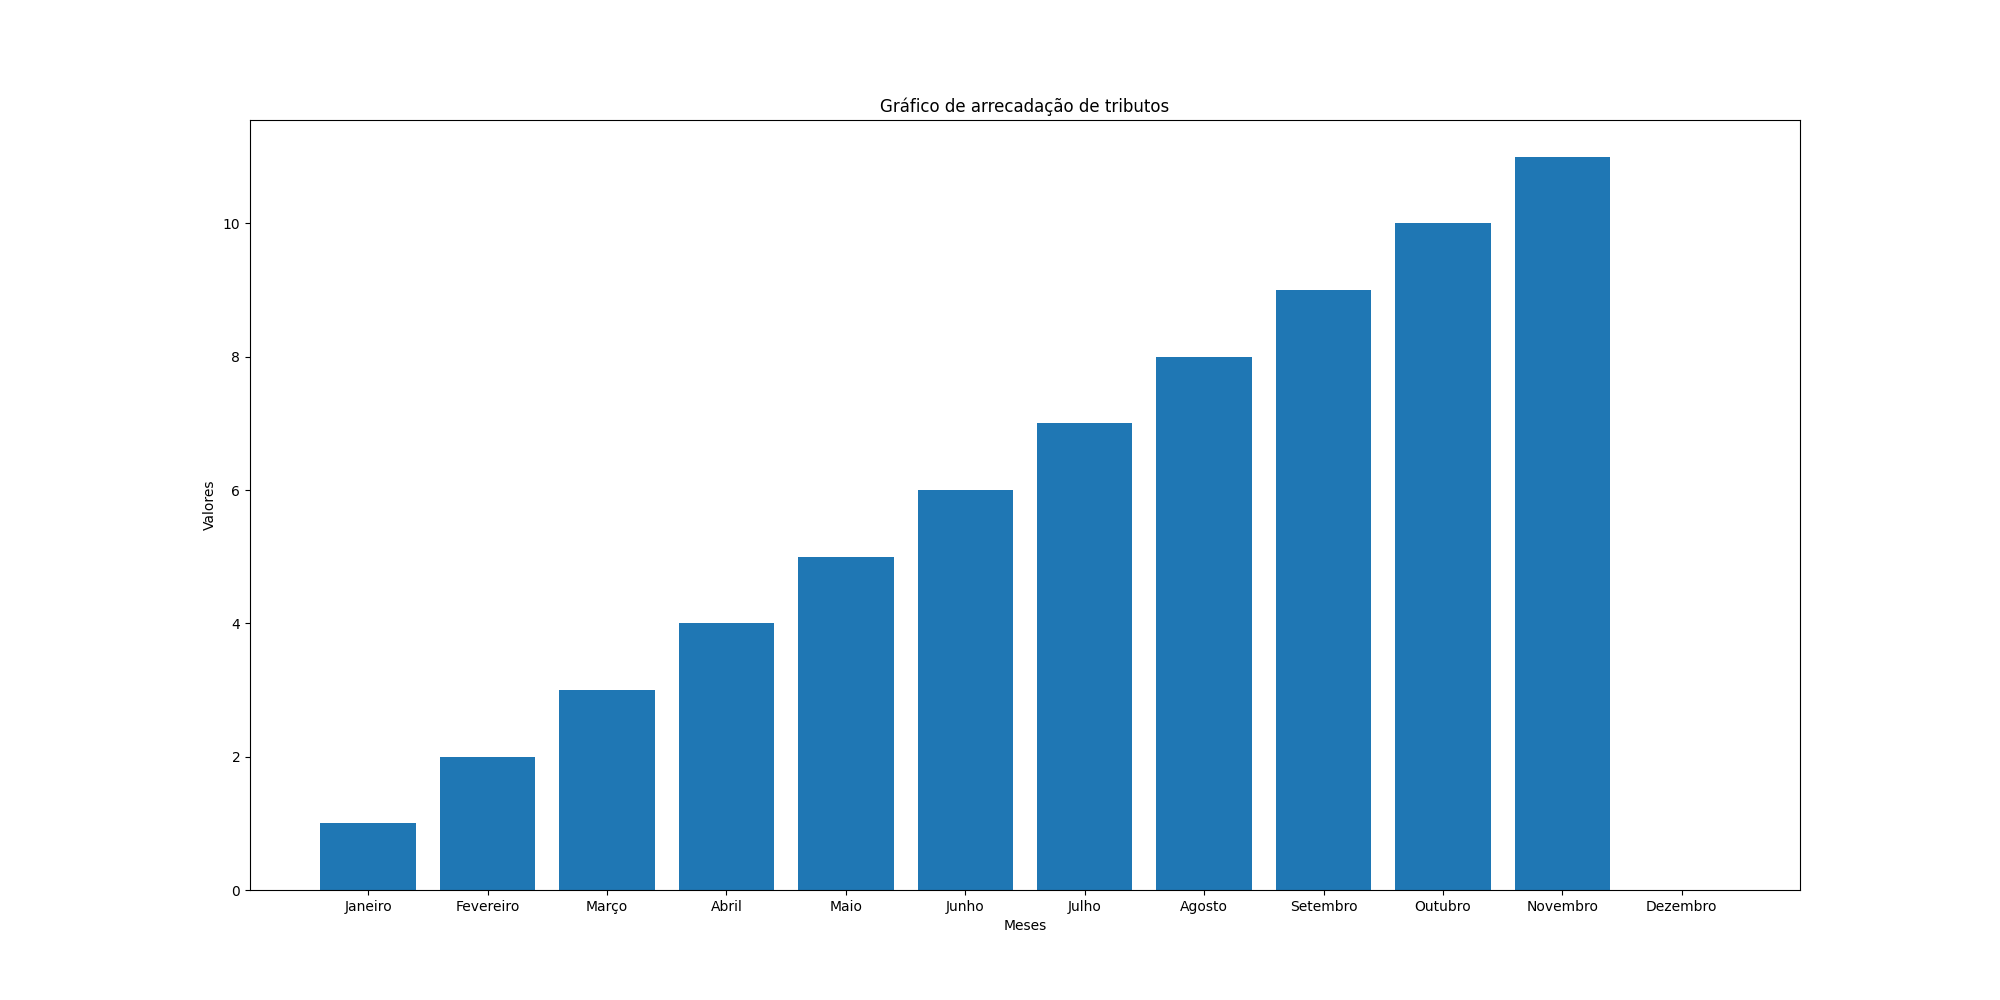
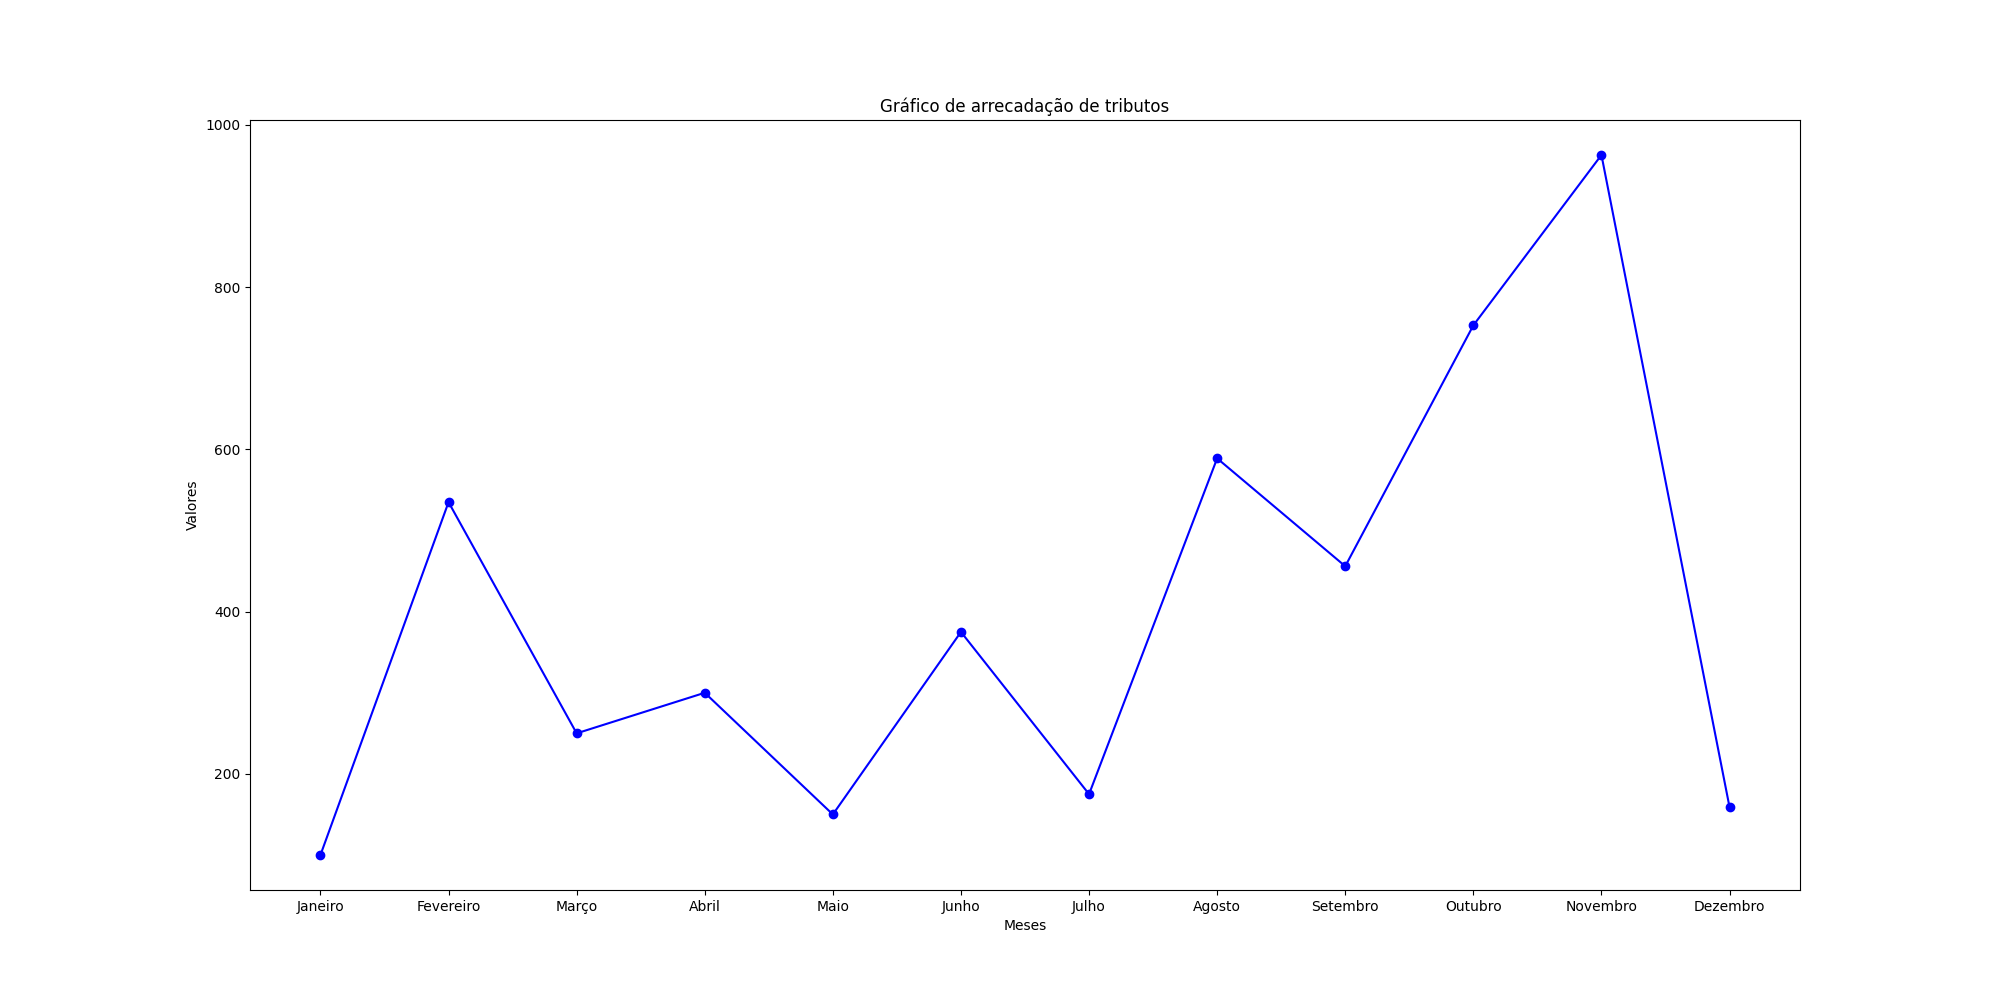
Alterei o formado do gráfico para linear

Changed region(s): [[0.155, 0.155, 0.868, 0.93], [0.093, 0.465, 0.124, 0.527], [0.217, 0.496, 0.248, 0.527]]

diff --git a/teste.py b/teste.py
@@ -1,48 +1,96 @@
+# import matplotlib
 # import matplotlib.pyplot as plt
-# import tempfile
-# import os
+# matplotlib.use('Agg') 
 
-# categorias = ['A', 'B', 'C', 'D', 'E']
-# valores = [10, 23, 17, 12, 15]
+# class RelatorioGrafico(LoginRequiredMixin, View):
+#     def get(self, request):
+#         pdf = FPDF()
+#         pdf.add_page()
 
-# plt.bar(categorias, valores)
-# plt.xlabel('Categorias')
+#         pdf.image('static/img/layout.png', 0, 0, 210, 297)
+
+        
+#         categorias = ['Janeiro', 'Fevereiro', 'Março', 'Abril', 'Maio', 'Junho', 'Julho', 'Agosto', 'Setembro', 'Outubro', 'Novembro', 'Dezembro']
+#         valores = [1, 2, 3, 4, 5, 6, 7, 8, 9, 10 , 11, 0]
+        
+#         largura_colunas = 0.8
+
+#         plt.figure(figsize=(20,10))
+
+#         plt.bar(categorias, valores, width=largura_colunas)
+        
+#         plt.title('Gráfico de arrecadação de tributos')
+        
+#         plt.ylabel('Valores')
+        
+#         plt.xlabel('Meses')
+        
+#         # Verificar como criar o gráfico como uma imagem temporária apenas para ser incluida no relatório, depois excluir.
+#         plt.savefig('static/img/grafico.png')
+        
+#         plt.close()
+
+#         pdf.image('static/img/grafico.png', -10, 40, 230) #x=30, y=40, tamanho imagem=200
+
+#         pdf.set_font("Arial", size=12)  # Defina a fonte e o tamanho
+
+#         # Adicione uma célula com o texto
+#         pdf.cell(200, 10, txt="Relatório de arrecadação de tributos", ln=True, align='C')
+
+#         # Crie um arquivo temporário
+#         temp_file = tempfile.NamedTemporaryFile(delete=False, suffix='.pdf')
+#         pdf.output(temp_file.name)
+
+#         temp_file.close()
+        
+#         with open(temp_file.name, 'rb') as file:
+#             pdf_content = file.read()
+        
+#         os.unlink(temp_file.name)  # Exclua o arquivo temporário
+
+#         response = HttpResponse(pdf_content, content_type='application/pdf')
+#         response['Content-Disposition'] = 'inline; filename="grafico.pdf"'
+
+#         return response
+
+# import matplotlib
+# import matplotlib.pyplot as plt
+# # matplotlib.use('Agg')
+
+categorias = ['Janeiro', 'Fevereiro', 'Março', 'Abril', 'Maio', 'Junho', 'Julho', 'Agosto', 'Setembro', 'Outubro', 'Novembro', 'Dezembro']
+valores = [1, 2, 3, 4, 5, 6, 7, 8, 9, 10 , 11, 0]
+
+# # plt.bar(categorias, valores) Em barras
+
+
+# plt.plot(categorias, valores) # Em linha
+
 # plt.ylabel('Valores')
-# plt.title('Gráfico de Barras')
-# # plt.show()
-# plt.savefig('grafico.png')
-# plt.close()
 
-# criar o arquivo temporário, em seguida excluílo
+# plt.xlabel('Meses')
 
-# Pegar o layout do canva e preencher a página do pdf com o layout
+# plt.show()
 
-# 
 
-# from fpdf import FPDF
-# import tempfile
-# import os
-# from django.http import HttpResponse
+import matplotlib.pyplot as plt
 
-# def GerarPdf():
-#     pdf = FPDF()
+# Dados
+categorias = ['Janeiro', 'Fevereiro', 'Março', 'Abril', 'Maio', 'Junho', 'Julho', 'Agosto', 'Setembro', 'Outubro', 'Novembro', 'Dezembro']
+valores = [100.00, 535.000, 250.000, 300.000, 150.000, 375.000, 175.000, 589.000, 456.000, 753.000, 963.000, 159.000]
 
-#     pdf.add_page()
+# # Configurações do gráfico
+plt.figure(figsize=(20,10))
 
-#     pdf.cell("teste")
+# Gráfico de linhas ao invés de barras
+plt.plot(categorias, valores, marker='o', linestyle='-', color='b')
 
-#     temp_file = tempfile.NamedTemporaryFile(delete=False)
-#     pdf.output(temp_file.name)
-#     temp_file.close()
+# Título e rótulos
+plt.title('Gráfico de arrecadação de tributos')
+plt.ylabel('Valores')
+plt.xlabel('Meses')
 
-#     with open(temp_file.name, 'rb') as file:
-#         pdf_content = file.read()
+# Salvando o gráfico
+plt.show()
 
-#     os.unlink(temp_file.name)
 
-#     response = HttpResponse(pdf_content, content_type='application/pdf')
-#     response['Content-Disposition'] = 'inline; filename="teste.pdf"'
 
-#     return response
-
-# GerarPdf()

diff --git a/apps/controle_de_processos/views.py b/apps/controle_de_processos/views.py
@@ -1305,22 +1305,24 @@ class RelatorioGrafico(LoginRequiredMixin, View):
 
         pdf.image('static/img/layout.png', 0, 0, 210, 297)
 
-        
-        categorias = ['Janeiro', 'Fevereiro', 'Março', 'Abril', 'Maio', 'Junho', 'Julho', 'Agosto', 'Setembro', 'Outubro', 'Novembro', 'Dezembro']
-        valores = [1, 2, 3, 4, 5, 6, 7, 8, 9, 10 , 11, 0]
-        
-        largura_colunas = 0.8
+        # Criar uma condição de acordo com o tipo de relatório selecionado, "mensa ou anual"
 
+        # Dados
+        categorias = ['Janeiro', 'Fevereiro', 'Março', 'Abril', 'Maio', 'Junho', 'Julho', 'Agosto', 'Setembro', 'Outubro', 'Novembro', 'Dezembro']
+        valores = [100.00, 535.000, 250.000, 300.000, 150.000, 375.000, 175.000, 589.000, 456.000, 753.000, 963.000, 159.000]
+
+        # # Configurações do gráfico
         plt.figure(figsize=(20,10))
 
-        plt.bar(categorias, valores, width=largura_colunas)
-        
+        # Gráfico de linhas ao invés de barras
+        plt.plot(categorias, valores, marker='o', linestyle='-', color='b')
+
+        # Título e rótulos
         plt.title('Gráfico de arrecadação de tributos')
-        
         plt.ylabel('Valores')
-        
         plt.xlabel('Meses')
-        
+
+       # Verificar como criar o gráfico como uma imagem temporária apenas para ser incluida no relatório, depois excluir.
         plt.savefig('static/img/grafico.png')
         
         plt.close()
